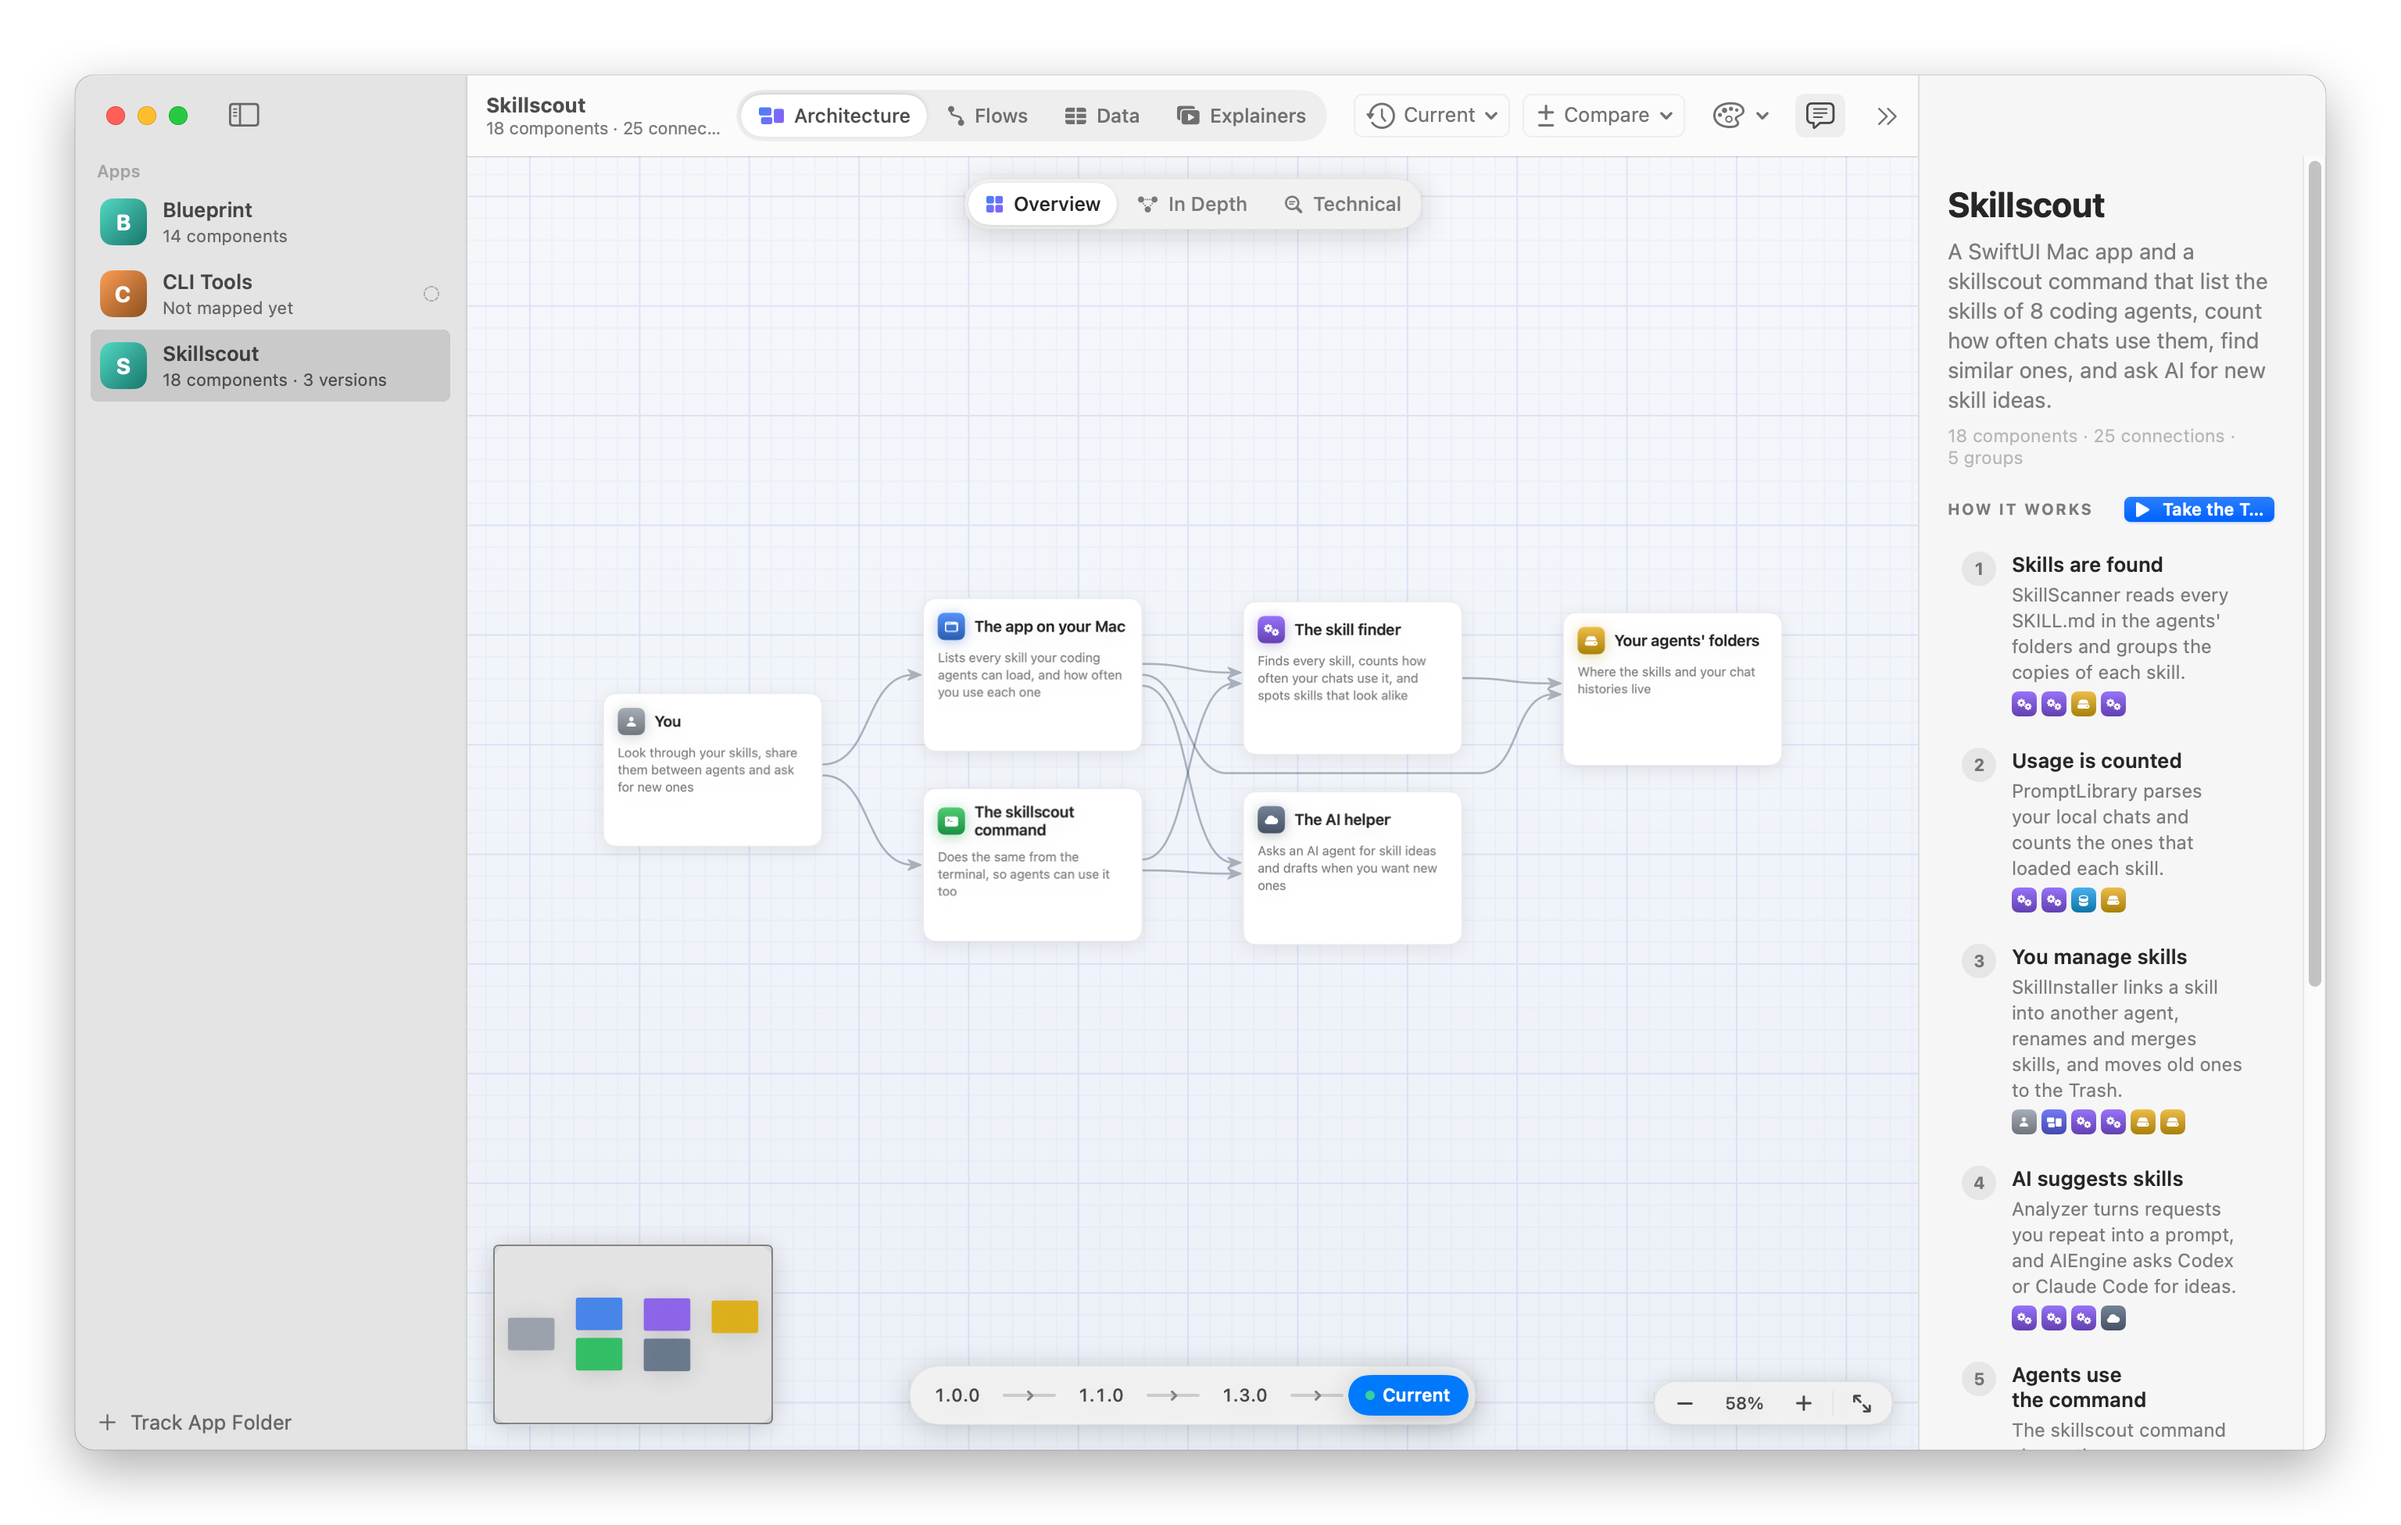
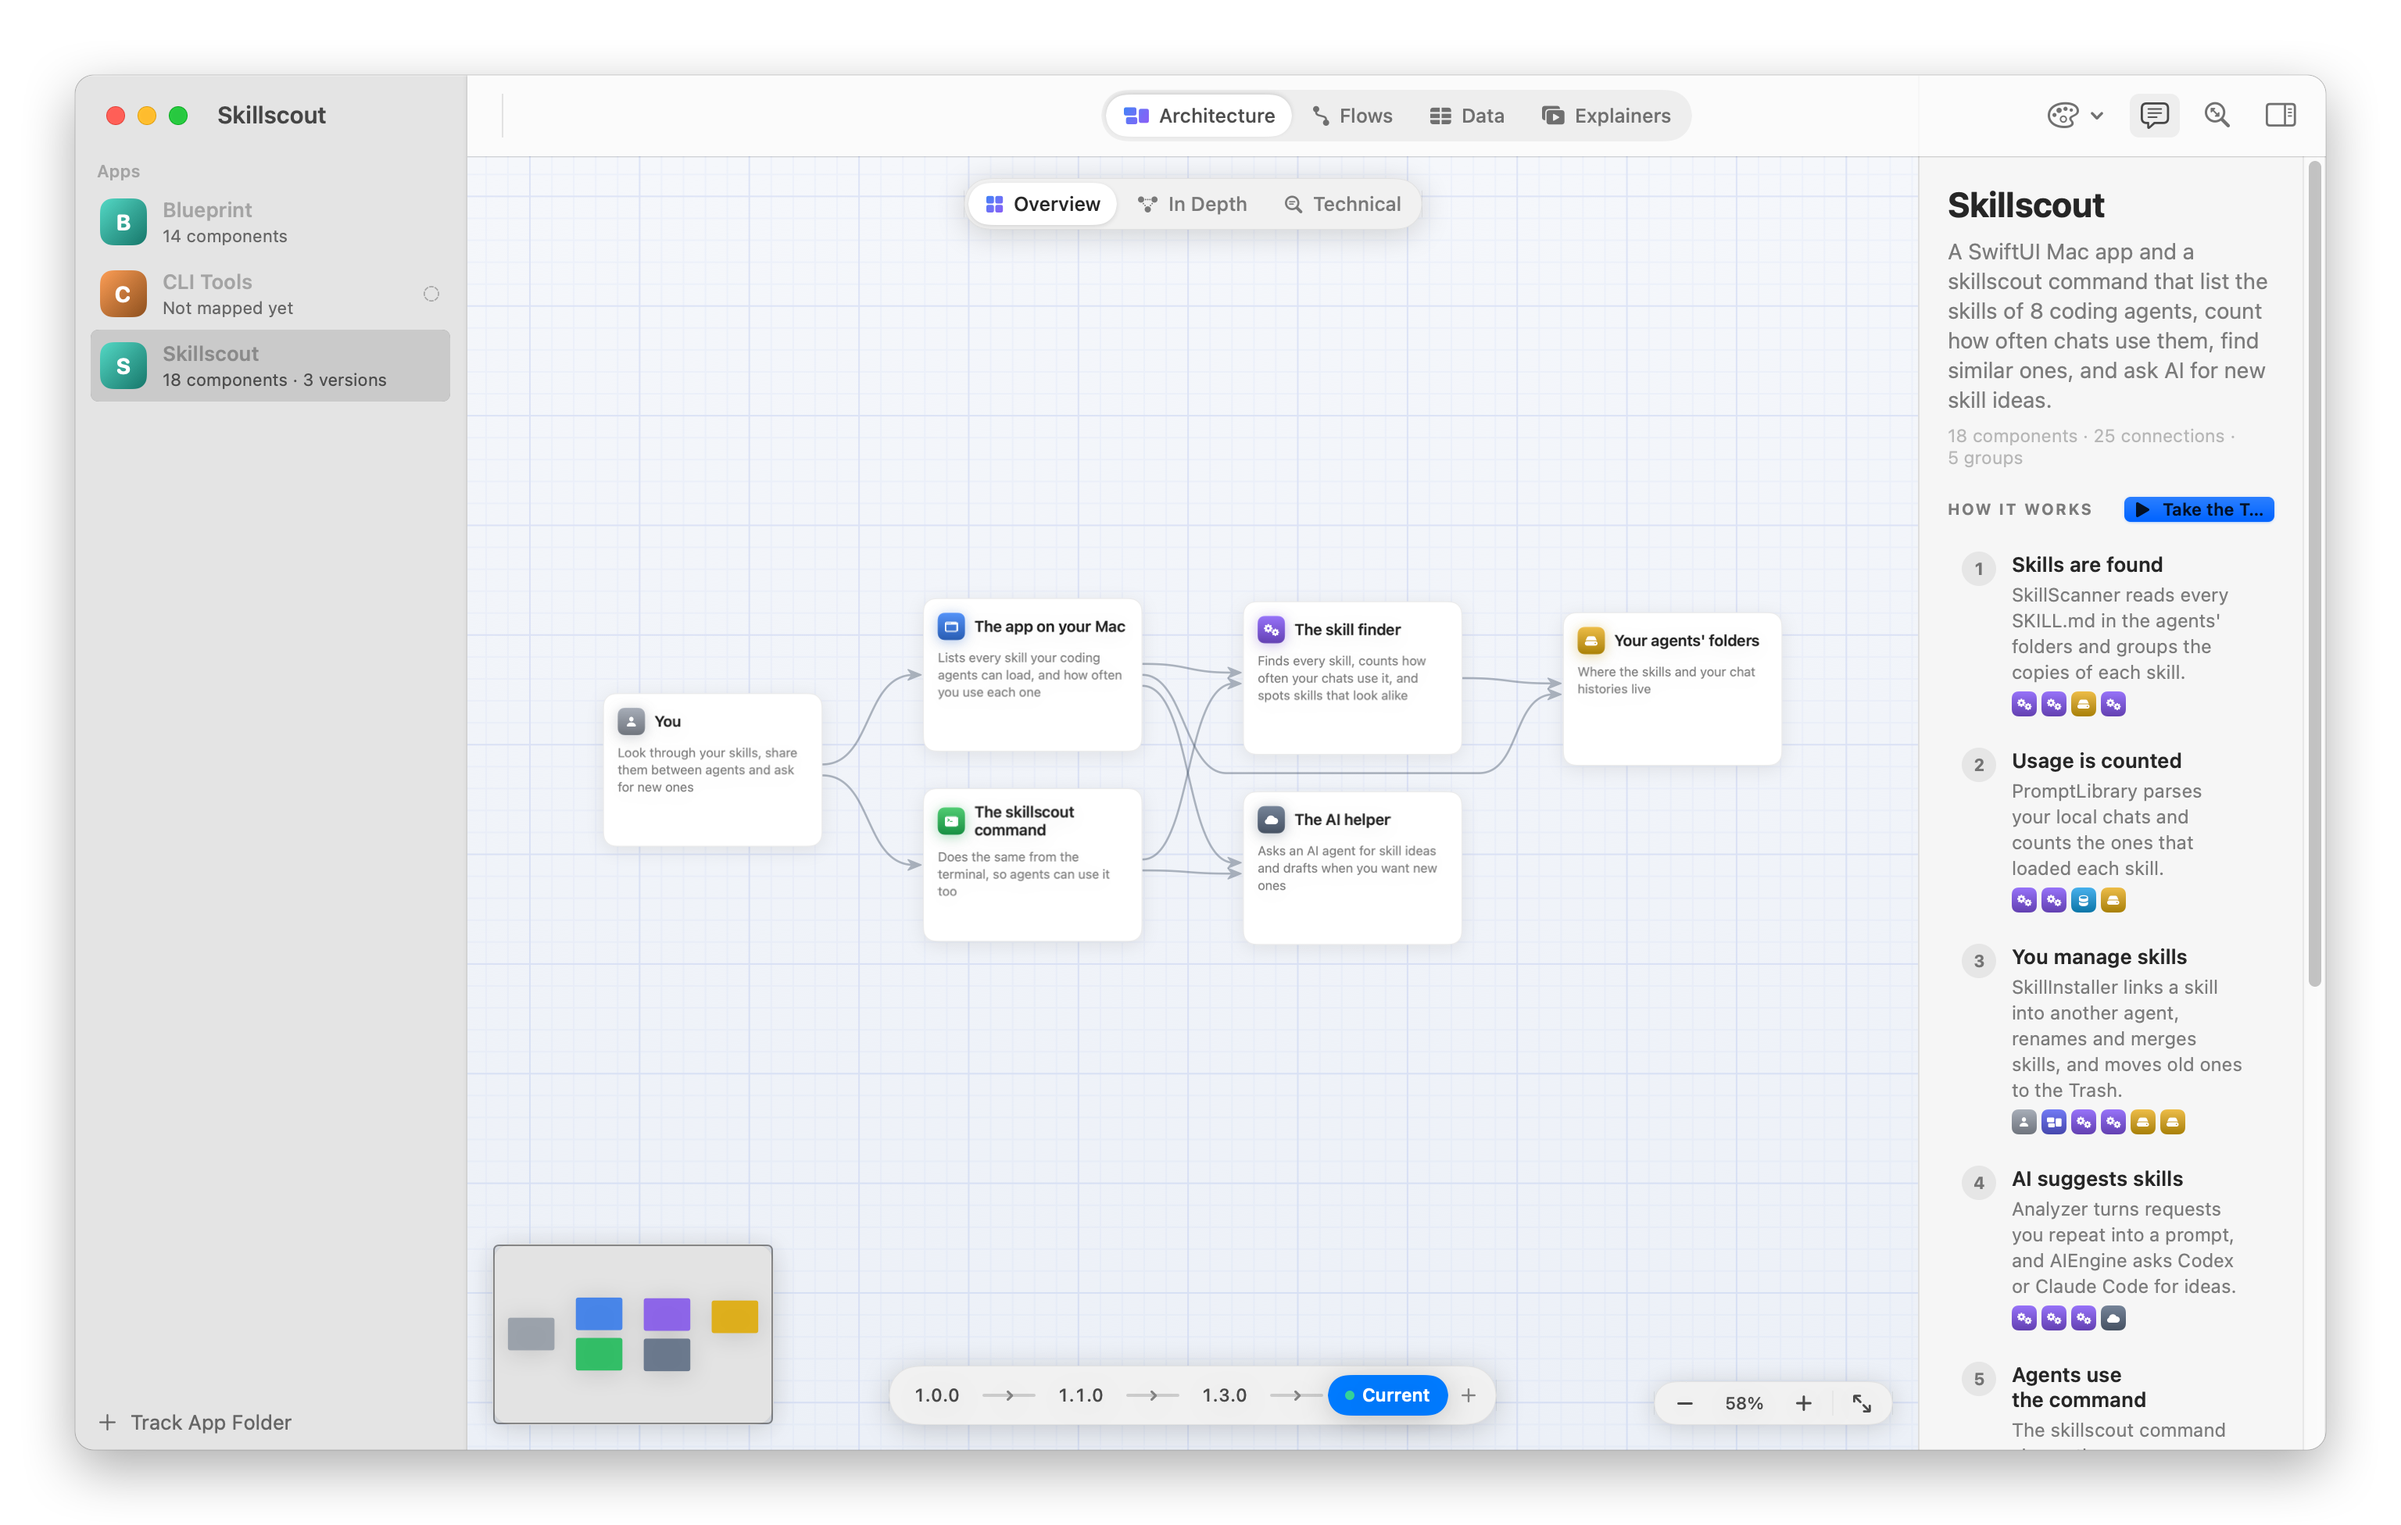
Drop the window subtitle and the version and compare menus: the timeline does both, and saves versions with its + button

diff --git a/Blueprint/DetailView.swift b/Blueprint/DetailView.swift
@@ -83,7 +83,6 @@ struct DetailView: View {
         }
       }
       .navigationTitle(store.name(of: app))
-      .navigationSubtitle(subtitle(data))
       .toolbar { toolbar(data) }
       .inspector(isPresented: $store.showInspector) {
         Inspector(app: app, data: data)
@@ -97,14 +96,6 @@ struct DetailView: View {
     }
   }
 
-  private func subtitle(_ data: AppData) -> String {
-    guard let snapshot = data.snapshot(store.viewing) else { return "Not mapped yet" }
-    let architecture = snapshot.architecture
-    var parts = ["\(architecture.nodes.count) components", "\(architecture.edges.count) connections"]
-    parts.append("saved \(snapshot.savedAt.formatted(.relative(presentation: .named)))")
-    return parts.joined(separator: " · ")
-  }
-
   @ToolbarContentBuilder
   private func toolbar(_ data: AppData) -> some ToolbarContent {
     ToolbarItem(placement: .principal) {
@@ -113,38 +104,6 @@ struct DetailView: View {
         selection: Binding(get: { store.mode }, set: { store.mode = $0 })
       )
       .disabled(data.current == nil)
-    }
-
-    ToolbarItemGroup {
-      Menu {
-        Picker("Version", selection: Binding(get: { store.viewing }, set: { store.viewing = $0 })) {
-          ForEach(data.refs.reversed(), id: \.self) { ref in
-            Text(ref.label).tag(ref)
-          }
-        }
-        .pickerStyle(.inline)
-        Divider()
-        Button("Save Current as Version…") { store.isSavingVersion = true }
-          .disabled(data.current == nil)
-      } label: {
-        Label(store.viewing.label, systemImage: "clock.arrow.trianglehead.counterclockwise.rotate.90")
-          .labelStyle(.titleAndIcon)
-      }
-      .help("Choose the version to show")
-      .disabled(data.current == nil)
-
-      Menu {
-        Button("Don't Compare") { store.comparing = nil }
-        Divider()
-        ForEach(data.refs.reversed().filter { $0 != store.viewing }, id: \.self) { ref in
-          Button("Changes Since \(ref.label)") { store.comparing = ref }
-        }
-      } label: {
-        Label(store.comparing.map { "Since \($0.label)" } ?? "Compare", systemImage: "plusminus")
-          .labelStyle(.titleAndIcon)
-      }
-      .help("Highlight what changed since another version")
-      .disabled(data.refs.count < 2)
     }
 
     ToolbarItemGroup {
@@ -531,17 +490,23 @@ struct Timeline: View {
         }
         chip(ref, isViewing: index == viewing, isBase: index == base)
       }
-      if refs.count == 1 {
-        Button { store.isSavingVersion = true } label: {
-          Label("Save as Version", systemImage: "plus")
-            .font(.system(size: 11, weight: .medium))
-            .padding(.horizontal, 10)
-            .frame(height: 26)
+      Button { store.isSavingVersion = true } label: {
+        Group {
+          if refs.count == 1 {
+            Label("Save as Version", systemImage: "plus")
+              .padding(.horizontal, 10)
+          } else {
+            Image(systemName: "plus")
+              .frame(width: 26)
+          }
         }
-        .buttonStyle(.plain)
-        .foregroundStyle(.secondary)
-        .help("Save the current architecture as a version, to compare it with later ones")
+        .font(.system(size: 11, weight: .medium))
+        .frame(height: 26)
+        .contentShape(Capsule())
       }
+      .buttonStyle(.plain)
+      .foregroundStyle(.secondary)
+      .help("Save the current architecture as a version, to compare it with later ones (⌘S)")
     }
     .padding(5)
     .background(.regularMaterial, in: Capsule())
@@ -582,6 +547,7 @@ struct Timeline: View {
       .contentShape(Capsule())
     }
     .buttonStyle(.plain)
+    .help(ref == store.viewing ? "Showing \(ref.label)" : "Show \(ref.label). Right-click to see what changed since it")
     .contextMenu {
       if ref != store.viewing {
         Button("Changes Since \(ref.label)") { store.comparing = ref }

diff --git a/README.md b/README.md
@@ -102,7 +102,7 @@ Explainers are short videos about how parts of an app work, like "How skill use 
 
 When an agent saves a map, Blueprint records the hash of every file in the folder. From then on it knows which files changed, whether you committed them or not, and marks the components they belong to.
 
-Save a version at each release and the timeline lets you compare any two: new components in green, changed ones in amber with what changed, removed ones in red. In the Data tab, the schema shows how it migrated, field by field.
+Save a version at each release, with the + at the end of the timeline under the diagram or ⌘S. The timeline lets you compare any two: click the arrow between two versions, or right-click one to see what changed since it. New components show in green, changed ones in amber with what changed, removed ones in red. In the Data tab, the schema shows how it migrated, field by field.
 
 ![Comparing Skillscout 1.0.0 with the current architecture](docs/screenshot-compare-light.png)
 
